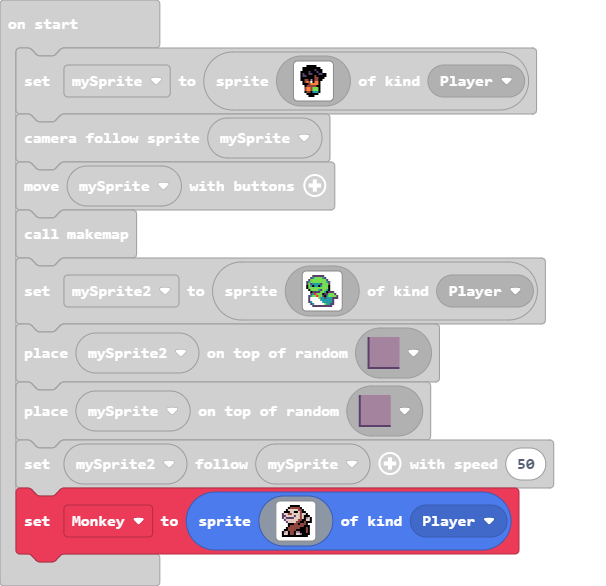
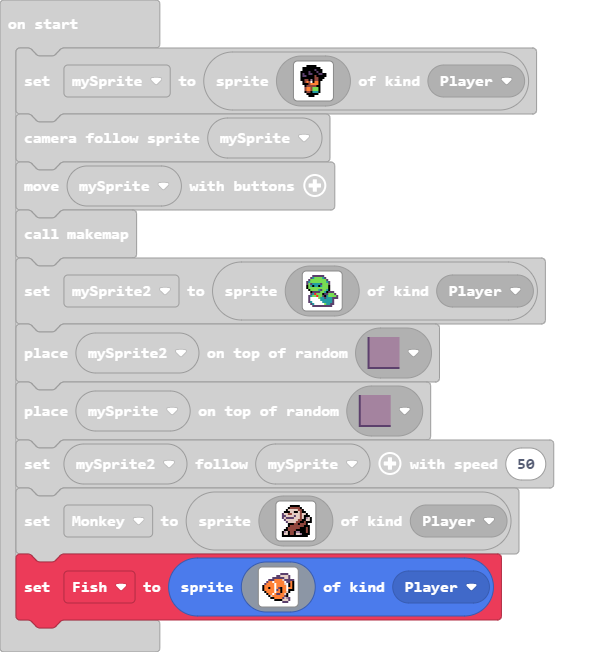
Added fish sprite

diff --git a/main.ts b/main.ts
@@ -97,3 +97,21 @@ let Monkey = sprites.create(img`
     . f d d f e e f d d b f f f f . 
     . f f f f f f f f f f f f f . . 
     `, SpriteKind.Player)
+let Fish = sprites.create(img`
+    . . . . . . . . . . . . . . . . 
+    . . . . . . . . . c c c c . . . 
+    . . . . . . . c c d d d d c . . 
+    . . . . . c c c c c c d d c . . 
+    . . . c c c 4 4 4 4 d c c c c c 
+    . . c 4 4 1 4 4 4 4 4 1 c c 4 f 
+    . c 4 4 4 4 1 4 4 4 4 d 1 f 4 f 
+    f 4 4 4 4 4 1 4 4 4 4 4 1 f 4 f 
+    f 4 4 f 4 4 1 4 c f 4 4 1 4 4 f 
+    f 4 4 4 4 4 1 c 4 f 4 4 1 f f f 
+    . f 4 4 4 4 1 4 4 f 4 4 d f . . 
+    . . f 4 4 1 4 c c 4 4 d f . . . 
+    . . . f d 4 4 4 4 4 4 c f . . . 
+    . . . . f f 4 4 4 4 c d b c . . 
+    . . . . . . f f f f d d d c . . 
+    . . . . . . . . . . c c c . . . 
+    `, SpriteKind.Player)
